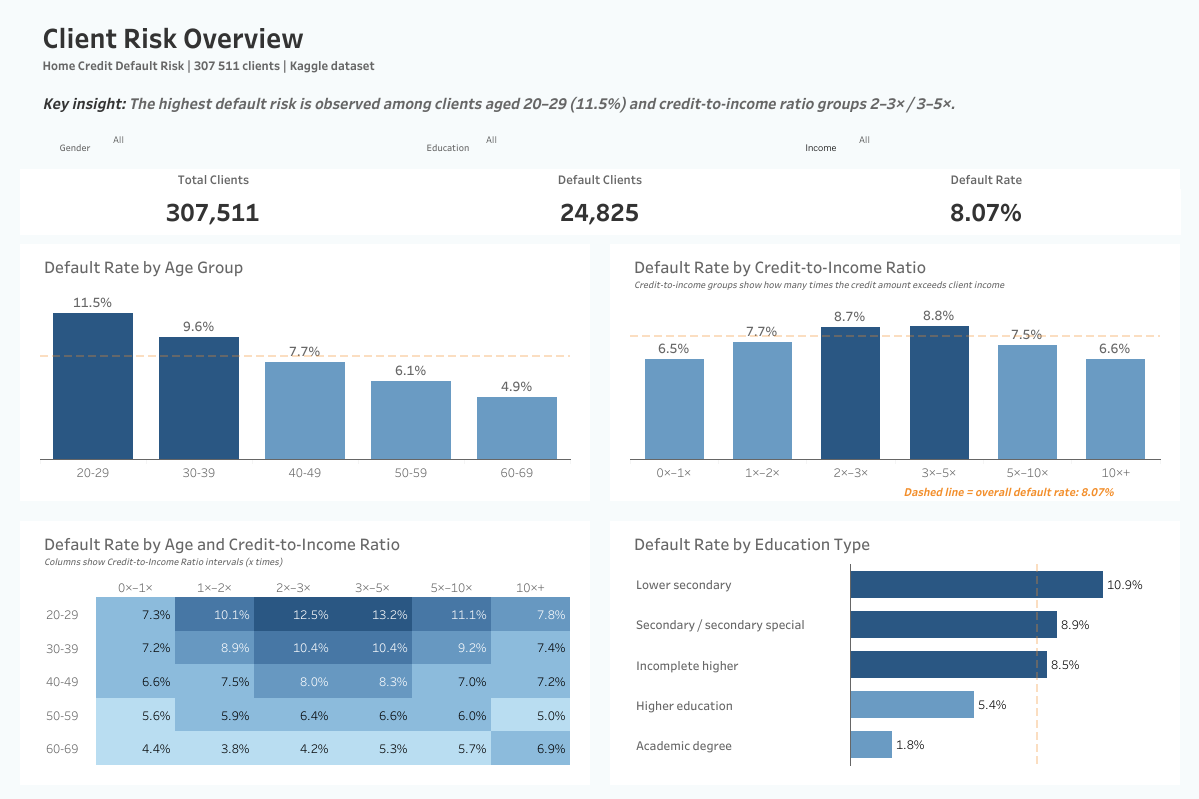
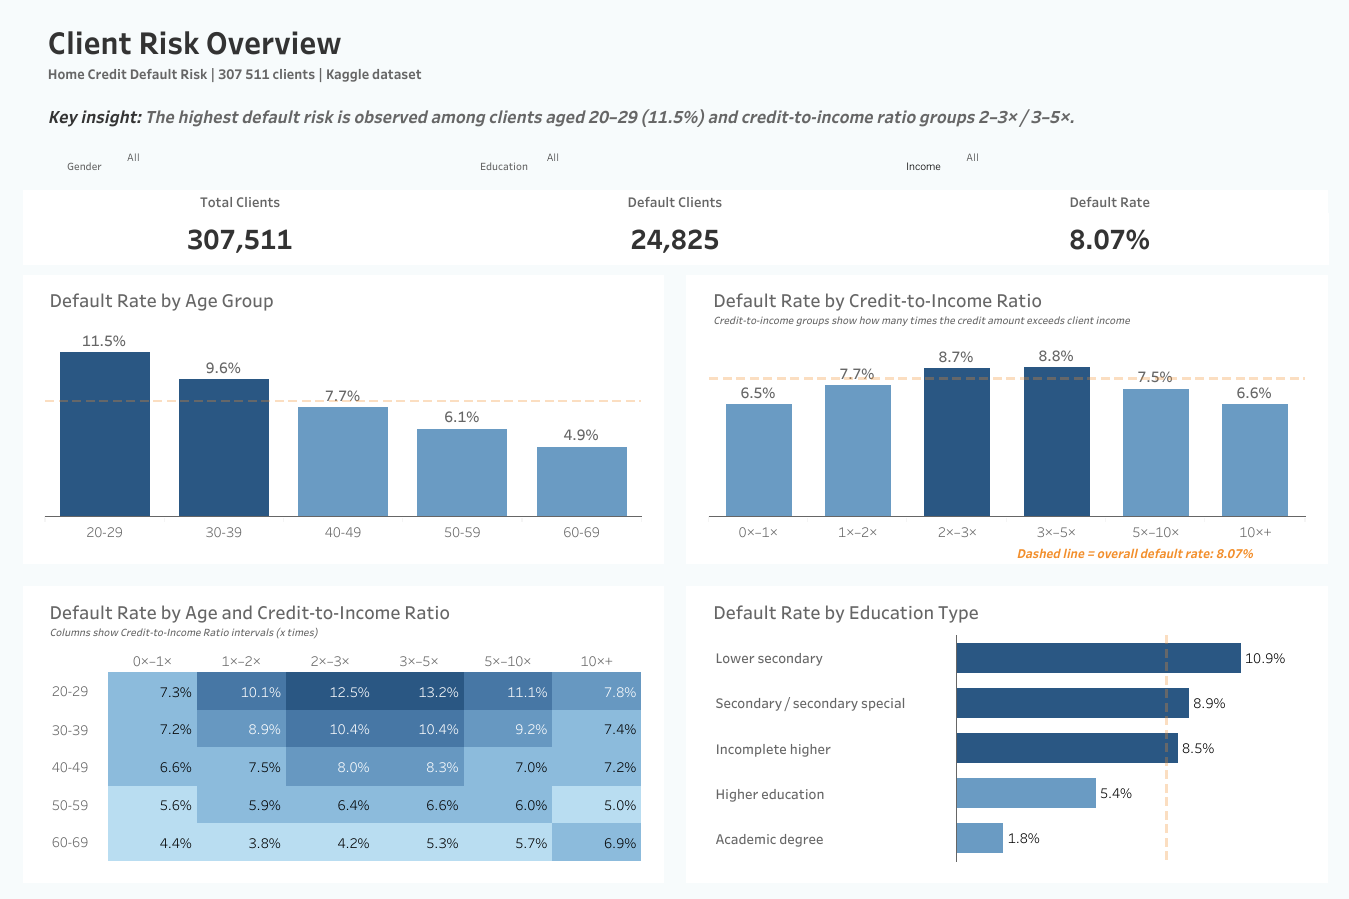
Update README and dashboard preview

diff --git a/README.md b/README.md
@@ -74,16 +74,20 @@ Raw data is not uploaded to this repository due to dataset size and Kaggle usage
 
 ## ❓ Key Analytical Questions
 
-This project answers the following questions:
+The project focuses on 10 analytical questions:
 
-- What is the overall default rate?
-- Which client segments have the highest default risk?
-- Is credit-to-income ratio related to default risk?
-- How does default risk differ by age and education level?
-- Are previous refused applications associated with higher current default risk?
-- Does previous revolving loan history indicate higher risk?
-- How does offer gap in previous applications relate to current default risk?
-- Can a simple baseline machine learning model identify default risk patterns?
+1. What is the overall default rate?
+2. Which client segments have the highest default risk?
+3. Is credit-to-income ratio related to default risk?
+4. What is the distribution of previous application statuses?
+5. Is previous application status associated with current default risk?
+6. Which previous contract type has the highest default rate?
+7. Is offer gap in previous applications related to current default risk?
+8. How does default rate change across credit-to-income groups in SQL analysis?
+9. Is the number of previous applications related to default risk?
+10. Which combination of previous status and contract type has the highest default rate?
+
+Additionally, the project includes a statistical hypothesis test and a simple baseline machine learning model.
 
 ---
 
@@ -129,75 +133,29 @@ home-credit-default-risk/
 
 ## 📓 Notebooks
 
-### `01_data_preparation.ipynb`
-
-Initial data loading, structure review, data quality checks, basic cleaning and feature engineering.
-
-Main steps:
-
-- loading the main datasets;
-- checking table size, data types and missing values;
-- reviewing key columns and target distribution;
-- handling special values;
-- creating analytical features such as age, employment years, credit-to-income ratio and grouped segments;
-- saving prepared datasets for further analysis.
-
-### `02_eda_previous_applications.ipynb`
-
-Exploratory analysis of previous applications and their relationship with current default status.
-
-Main focus:
-
-- previous application status;
-- previous contract type;
-- number of previous applications per client;
-- refused previous applications;
-- revolving loan history;
-- offer gap between requested and approved credit amount.
-
-### `03_sql_tableau_data.ipynb`
-
-SQL analysis using DuckDB and preparation of datasets for Tableau dashboards.
-
-Main outputs:
-
-- SQL-based default rate analysis;
-- client-level dataset for Tableau;
-- dashboard-ready fields and grouped dimensions.
-
-### `04_hypothesis_and_modeling.ipynb`
-
-Statistical hypothesis testing and a simple baseline machine learning model.
-
-Main focus:
-
-- checking whether previous refused applications are associated with default risk;
-- preparing features for modeling;
-- training a baseline model;
-- evaluating basic model performance.
-
-### `05_key_insights_recommendations.ipynb`
-
-Final summary of key insights, business interpretation and recommendations based on the analysis.
+| Notebook | Purpose |
+|---|---|
+| `01_data_preparation.ipynb` | Data loading, structure review, cleaning and feature engineering |
+| `02_eda_previous_applications.ipynb` | Exploratory analysis of client segments and previous applications |
+| `03_sql_tableau_data.ipynb` | SQL analysis with DuckDB and preparation of Tableau datasets |
+| `04_hypothesis_and_modeling.ipynb` | Hypothesis testing and baseline machine learning model |
+| `05_key_insights_recommendations.ipynb` | Final insights, business interpretation and recommendations |
 
 ---
 
 ## 🧮 SQL Analysis
 
-SQL queries are stored separately in the `sql/` folder.
+DuckDB SQL was used to validate key patterns and prepare aggregated views for Tableau.
 
-The SQL part includes:
+Main SQL outputs:
 
-1. **Default rate by credit-to-income group**  
-   File: `q01_default_rate_by_credit_income_group.sql`
+| Analysis Area | Business Purpose |
+|---|---|
+| Credit-to-income groups | Compare default rate across financial load segments |
+| Previous applications count | Check whether repeated previous applications are associated with higher risk |
+| Previous status × product type | Identify risky combinations of previous application status and contract type |
 
-2. **Default rate by number of previous applications**  
-   File: `q02_default_rate_by_previous_applications_count.sql`
-
-3. **Default rate by previous application status and product type**  
-   File: `q03_default_rate_by_previous_status_and_product_type.sql`
-
-These queries were executed with DuckDB inside the Python notebook.
+SQL queries are stored in the `sql/` folder for readability and reproducibility.
 
 ---
 
@@ -247,19 +205,21 @@ This dashboard focuses on how previous credit history is related to current defa
 
 ---
 
-## 🧪 Hypothesis Testing
+## 🧪 Hypothesis Testing and Analytical Findings
 
-Several analytical hypotheses were tested to check whether previous application history and financial indicators are associated with default risk.
+The analysis tested whether selected client and previous-application factors are associated with default risk.
 
-The goal of this section was not only to calculate differences, but also to understand which factors may be useful for risk segmentation.
+| Hypothesis / Factor | Key Comparison | Result | Interpretation |
+|---|---:|---|---|
+| Younger clients have higher default risk | Age 20–29: **11.5%** vs overall **8.07%** | Supported | Younger clients show the highest observed default rate |
+| Credit-to-income ratio is related to default risk | 2–3×: **8.7%**, 3–5×: **8.8%** vs overall **8.07%** | Supported | Medium credit-to-income load is associated with higher risk |
+| Previous refused applications indicate higher risk | Refused: **10.3%** vs no refused: **7.0%** | Supported | Refused history is a strong additional risk signal |
+| Previous revolving product history indicates higher risk | Has revolving loans: **9.5%** vs no revolving loans: **7.3%** | Supported | Revolving loan history may indicate higher credit risk |
+| Number of previous applications is related to default risk | 0 previous apps: **6.0%** vs 6+ apps: **8.7%** | Supported | Higher previous application activity is associated with higher default risk |
+| Offer gap is related to default risk | Higher approved amount: **8.7%** vs no approved previous app: **6.1%** | Supported | Offer gap can help segment previous-application risk |
+| Combination of refused history and revolving product is riskier | Refused + revolving: **11.2%** | Supported | Combined previous-application signals identify the riskiest segment |
 
-| Hypothesis | Method / Comparison | Result | Business Interpretation |
-|---|---|---|---|
-| Clients with previous refused applications have a higher default risk than clients without refused history. | Compared default rate between clients with and without refused previous applications. | Supported | Previous refused applications can be used as an additional risk signal. |
-| Clients with previous revolving loan history have a higher default risk. | Compared default rate for clients with and without previous revolving products. | Supported | Revolving loan history may indicate higher credit risk and should be monitored. |
-| Credit-to-income ratio is related to default risk. | Compared default rate across credit-to-income ratio groups. | Supported | Medium credit-to-income load groups showed higher default risk than the lowest groups. |
-| Age group is associated with default risk. | Compared default rate across client age groups. | Supported | Younger clients, especially age 20–29, showed the highest default rate. |
-| Previous application behavior provides additional segmentation value. | Combined previous refused history, revolving product history and offer gap groups. | Supported | Previous application patterns help identify higher-risk client segments when combined with financial indicators. |
+These findings are used for risk segmentation and business interpretation, not as standalone credit scoring rules.
 
 ---
 